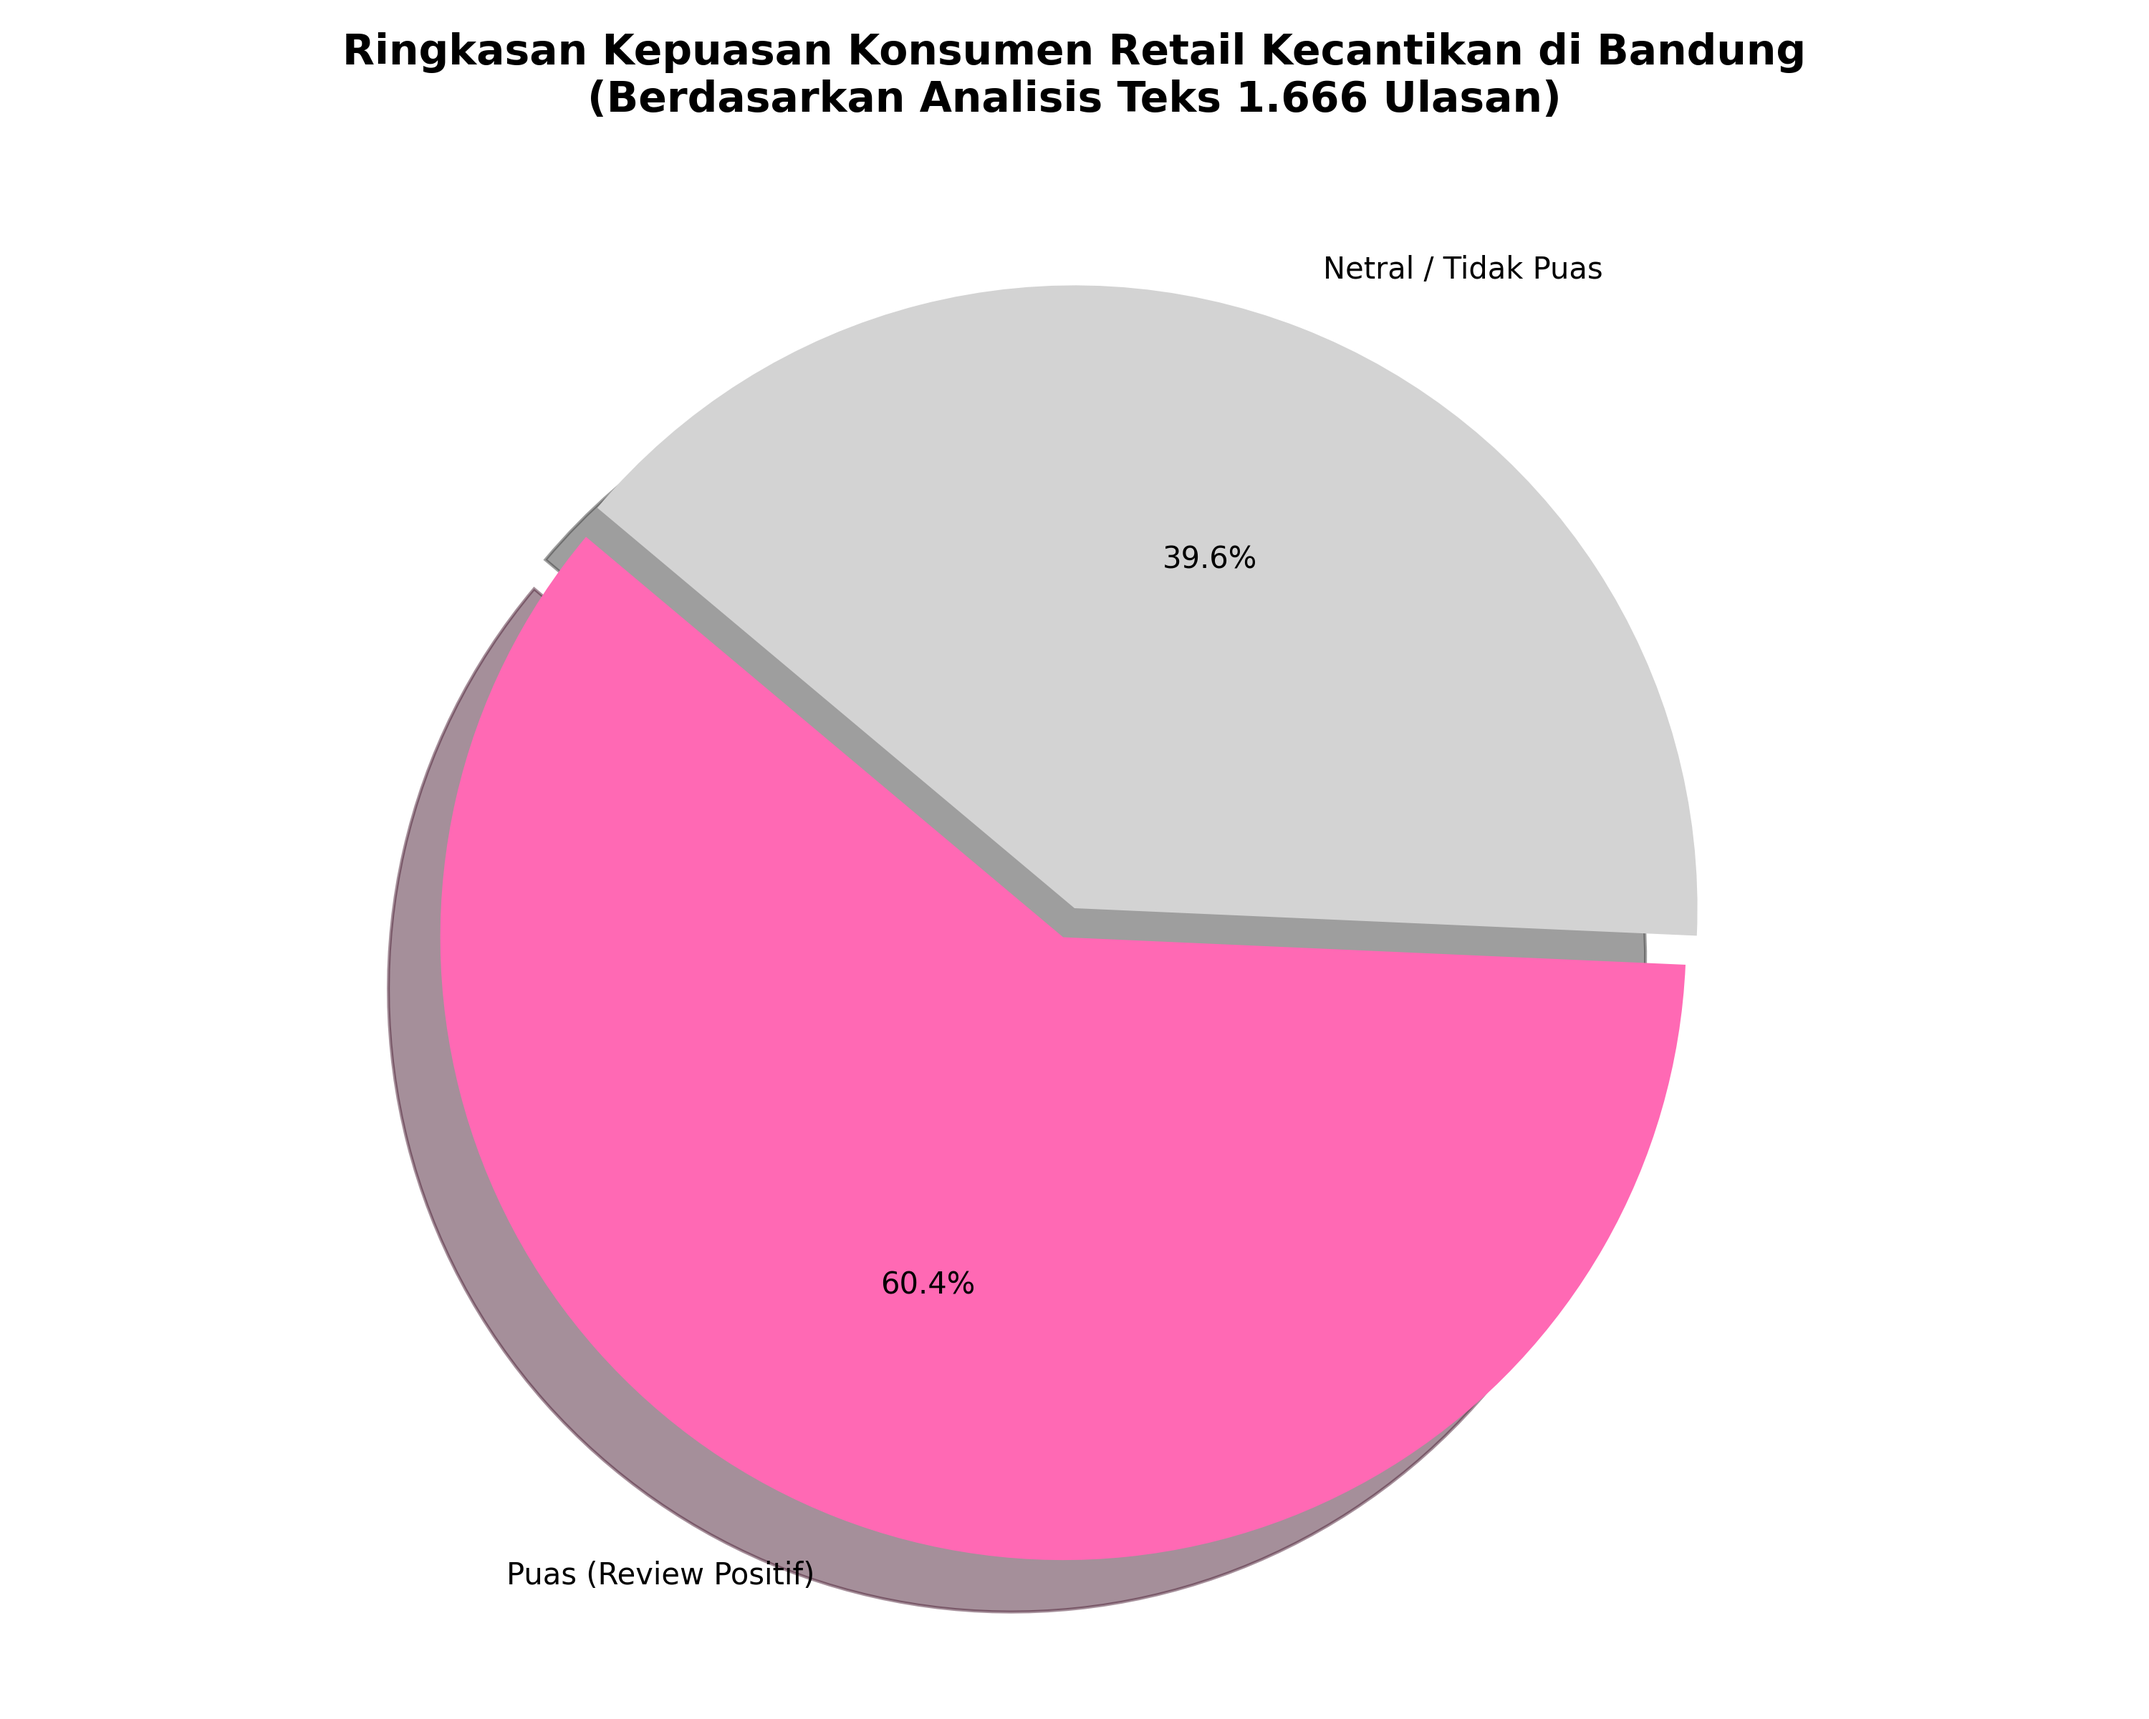
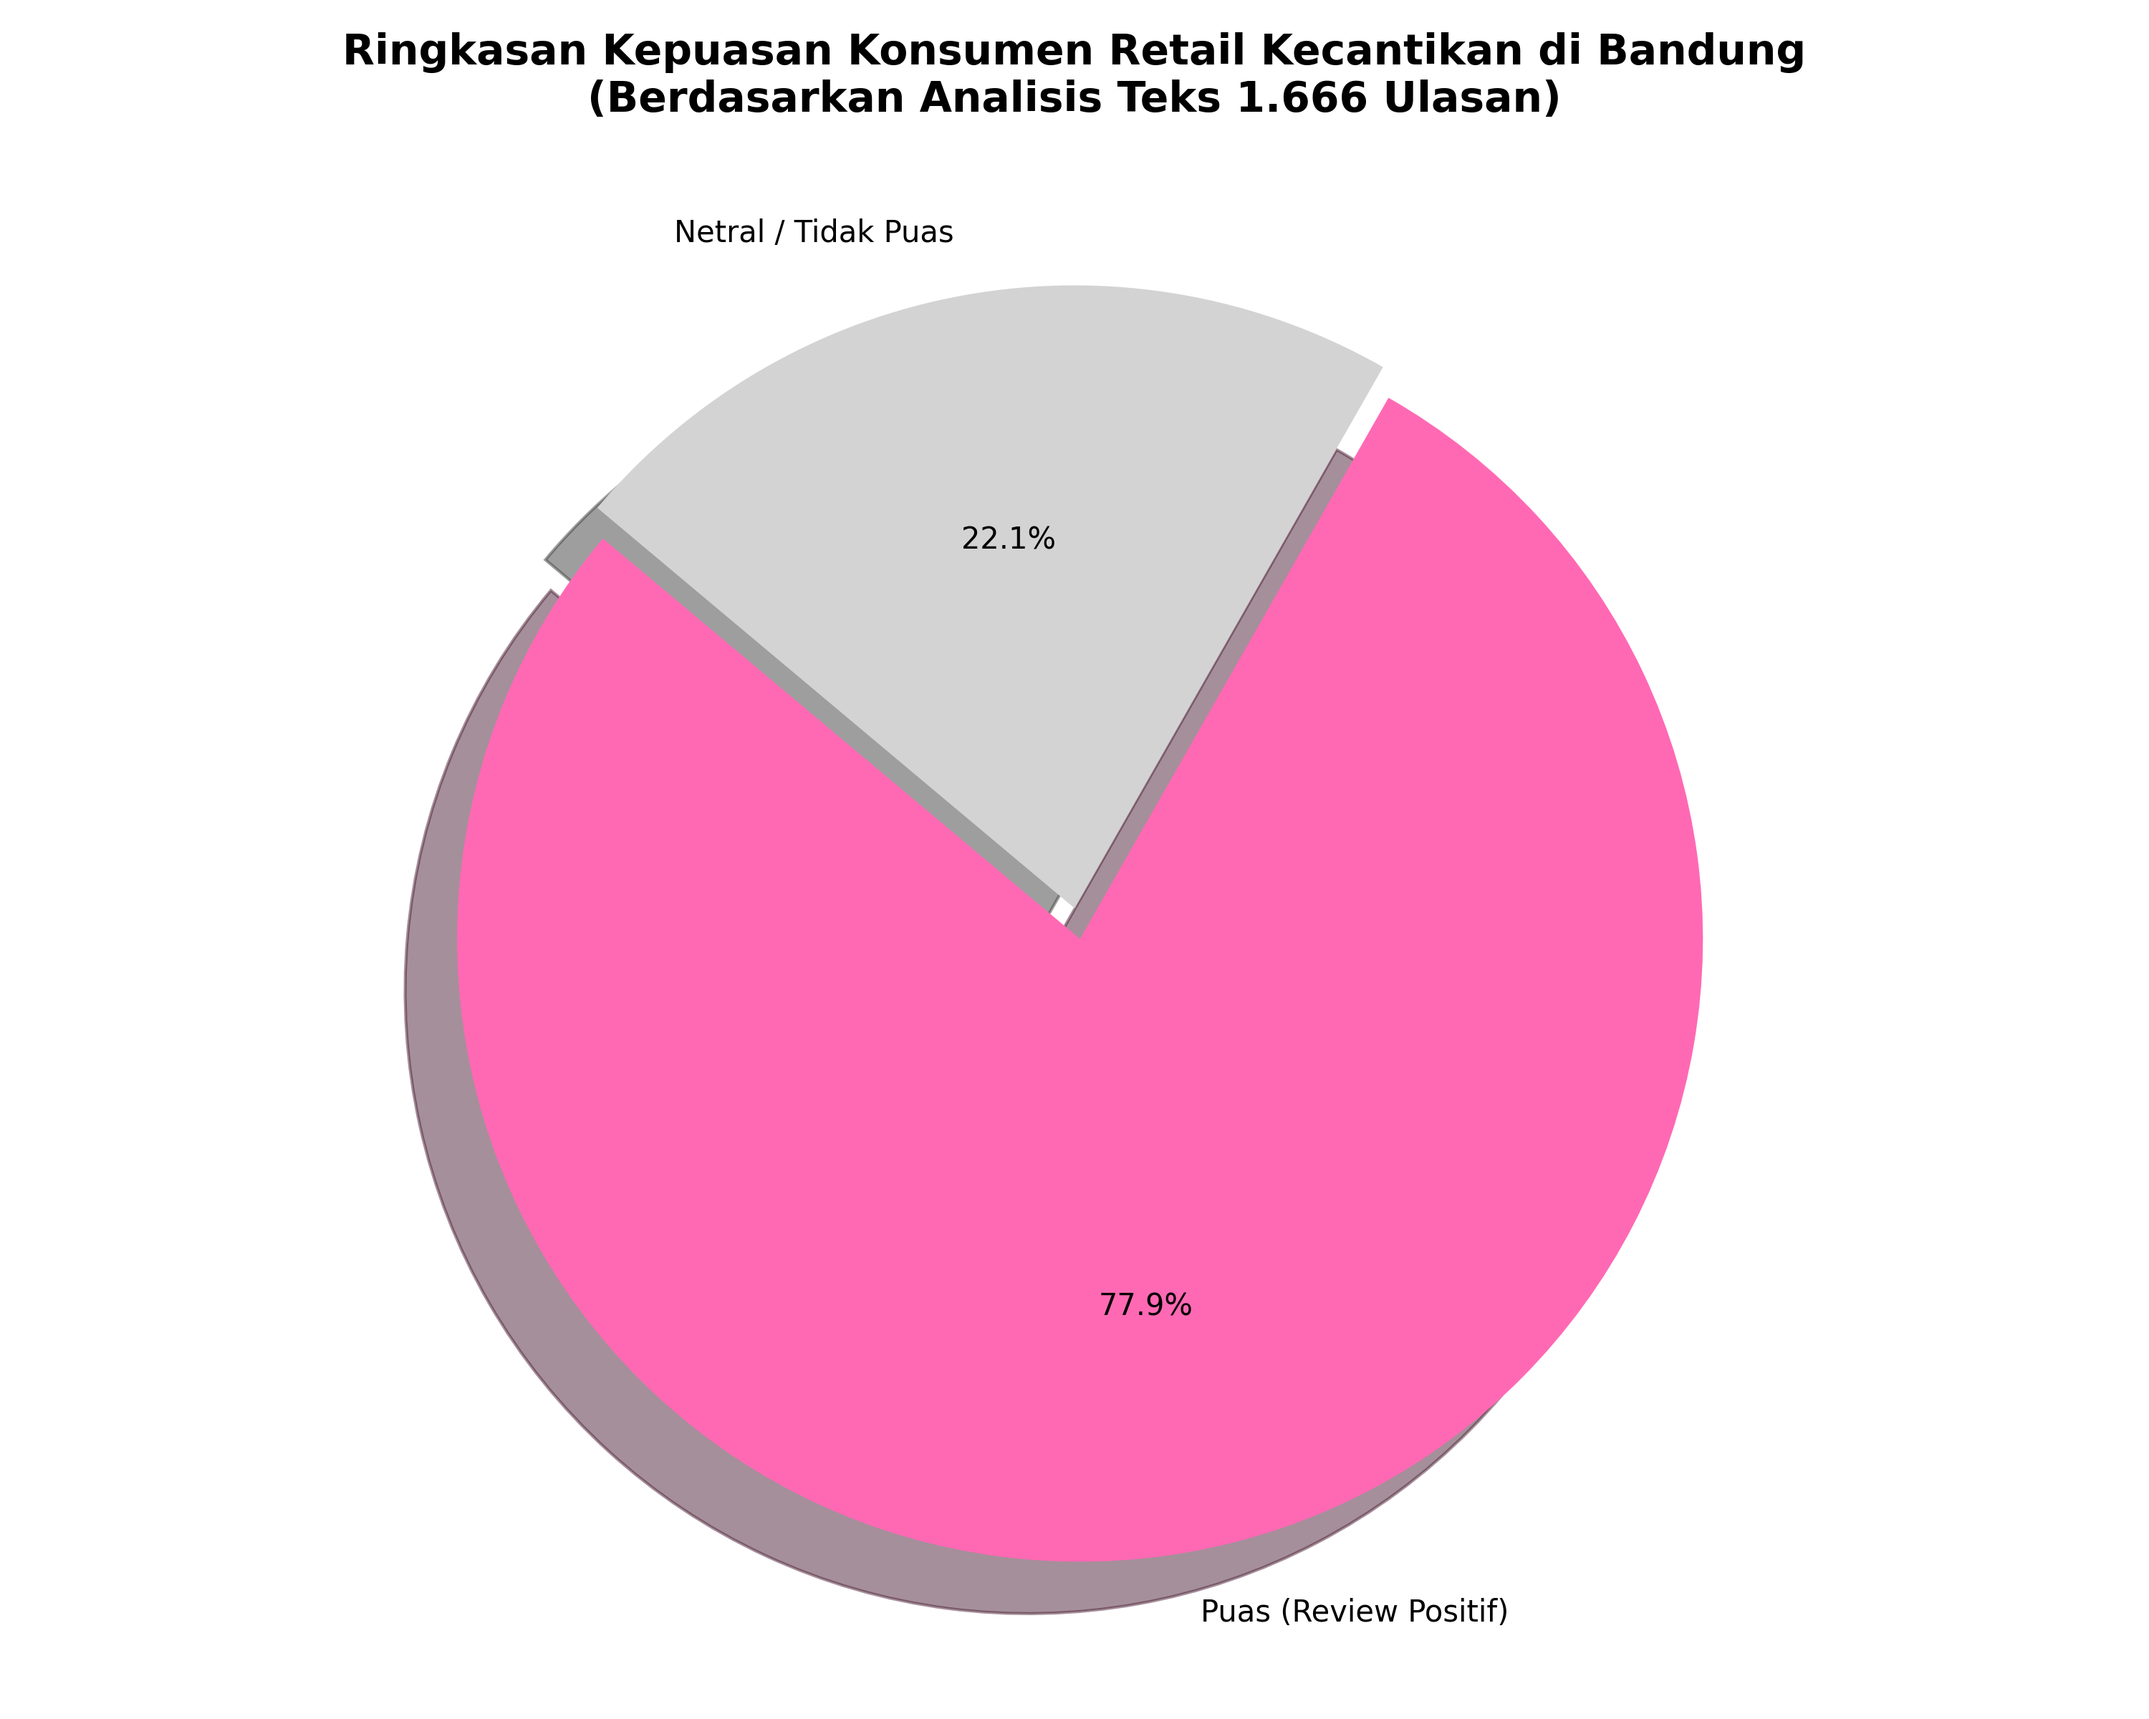
commit

diff --git a/Visualisasi/pie_chart.py b/Visualisasi/pie_chart.py
@@ -16,10 +16,10 @@ def main():
         
         # 3. KATA KUNCI KEPUASAN (Keyword Matching)
         # Menentukan ulasan positif berdasarkan teks
-        kata_positif = ['bagus', 'puas', 'enak', 'suka', 'mantap', 'recomended', 'cocok', 'love', 'best', 'original', 'keren', 'ramah']
+        kata_positif = ['bagus', 'puas', 'enak', 'suka', 'mantap', 'recomended', 'cocok', 'love', 'best', 'original', 'keren', 'ramah','cinta', 'ringan', 'good', 'favorite', 'nice', ' recommended', 'juara', 'cantik', 'wangi', 'terbaik', 'lembut', 'pigmentid', 'perfect', 'amazing', 'repurchase', 'great']
         
         def cek_sentimen(teks):
-            teks = str(teks).lower()
+            teks = str(teks)
             if any(kata in teks for kata in kata_positif):
                 return 'Puas (Review Positif)'
             else:
